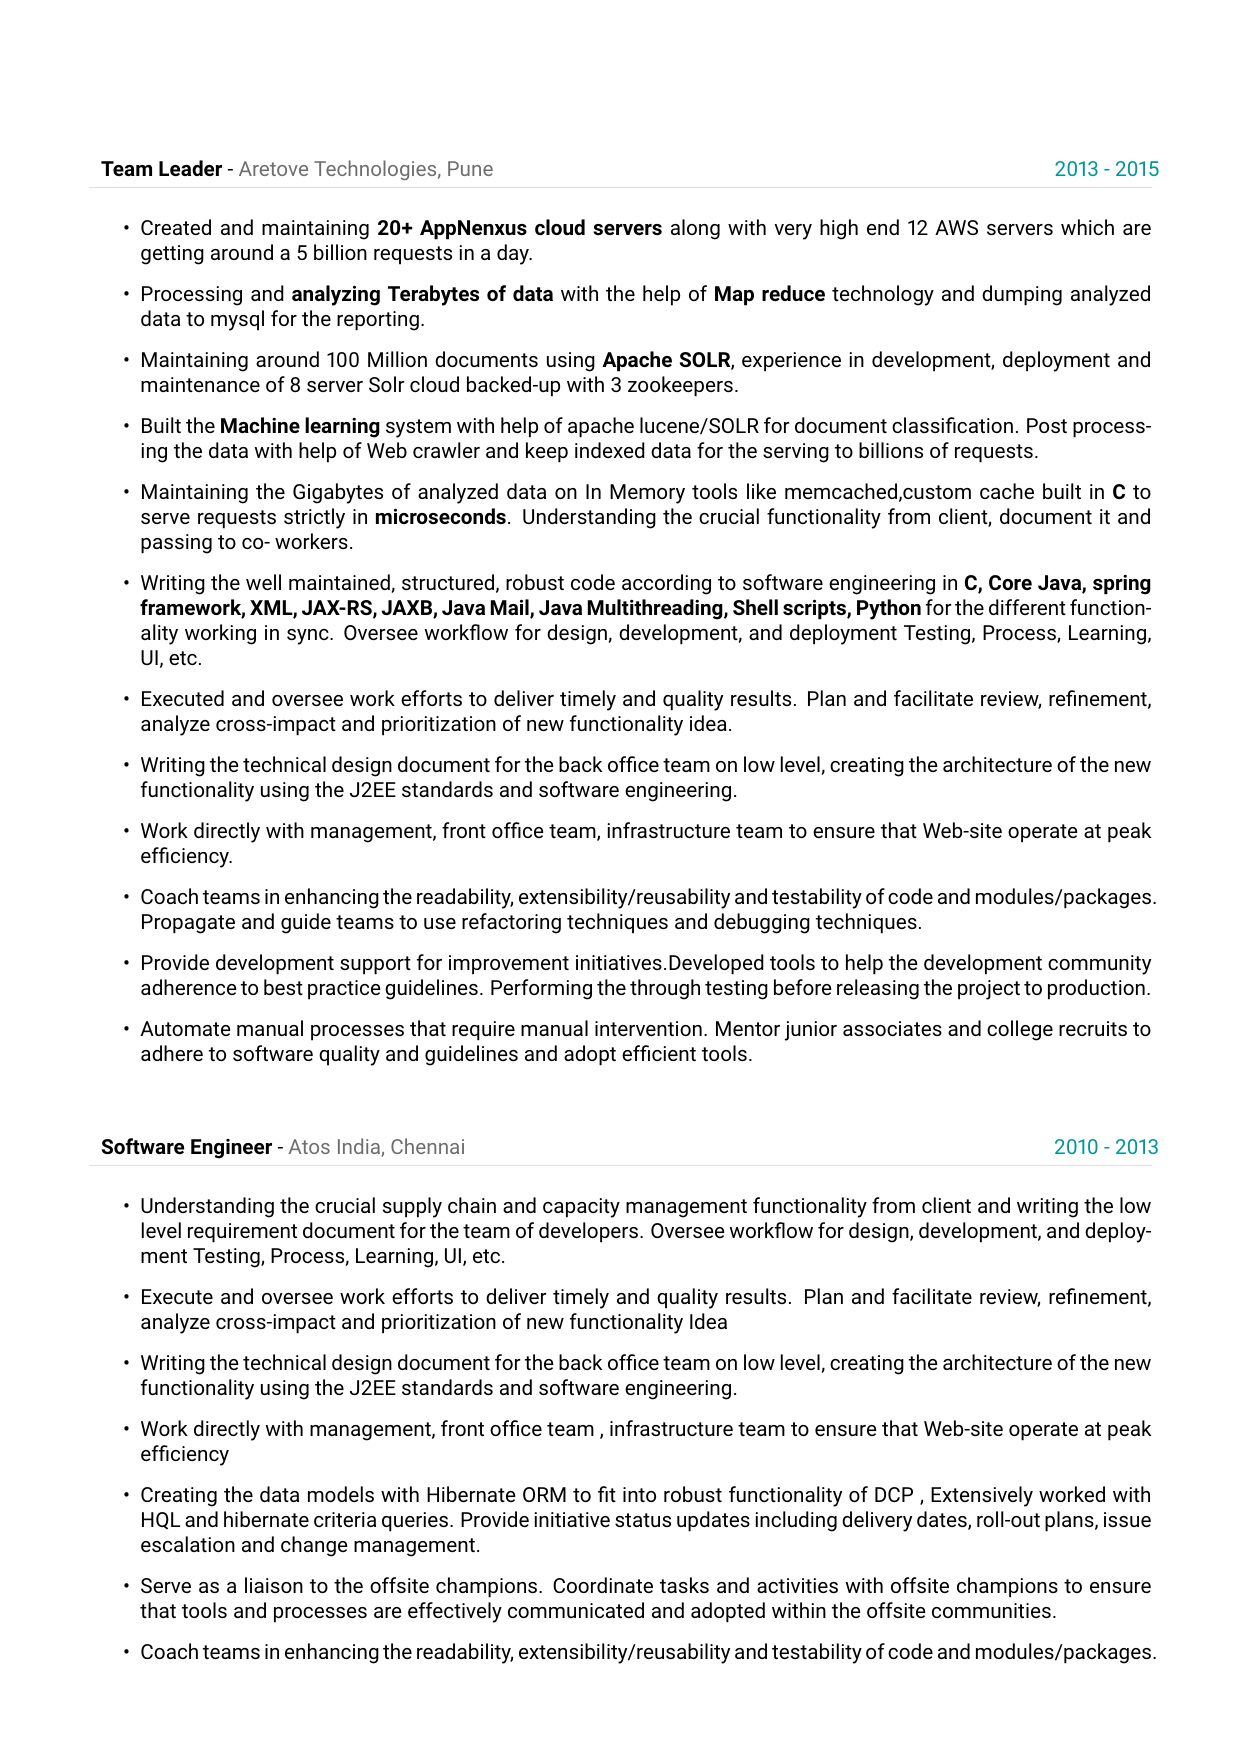
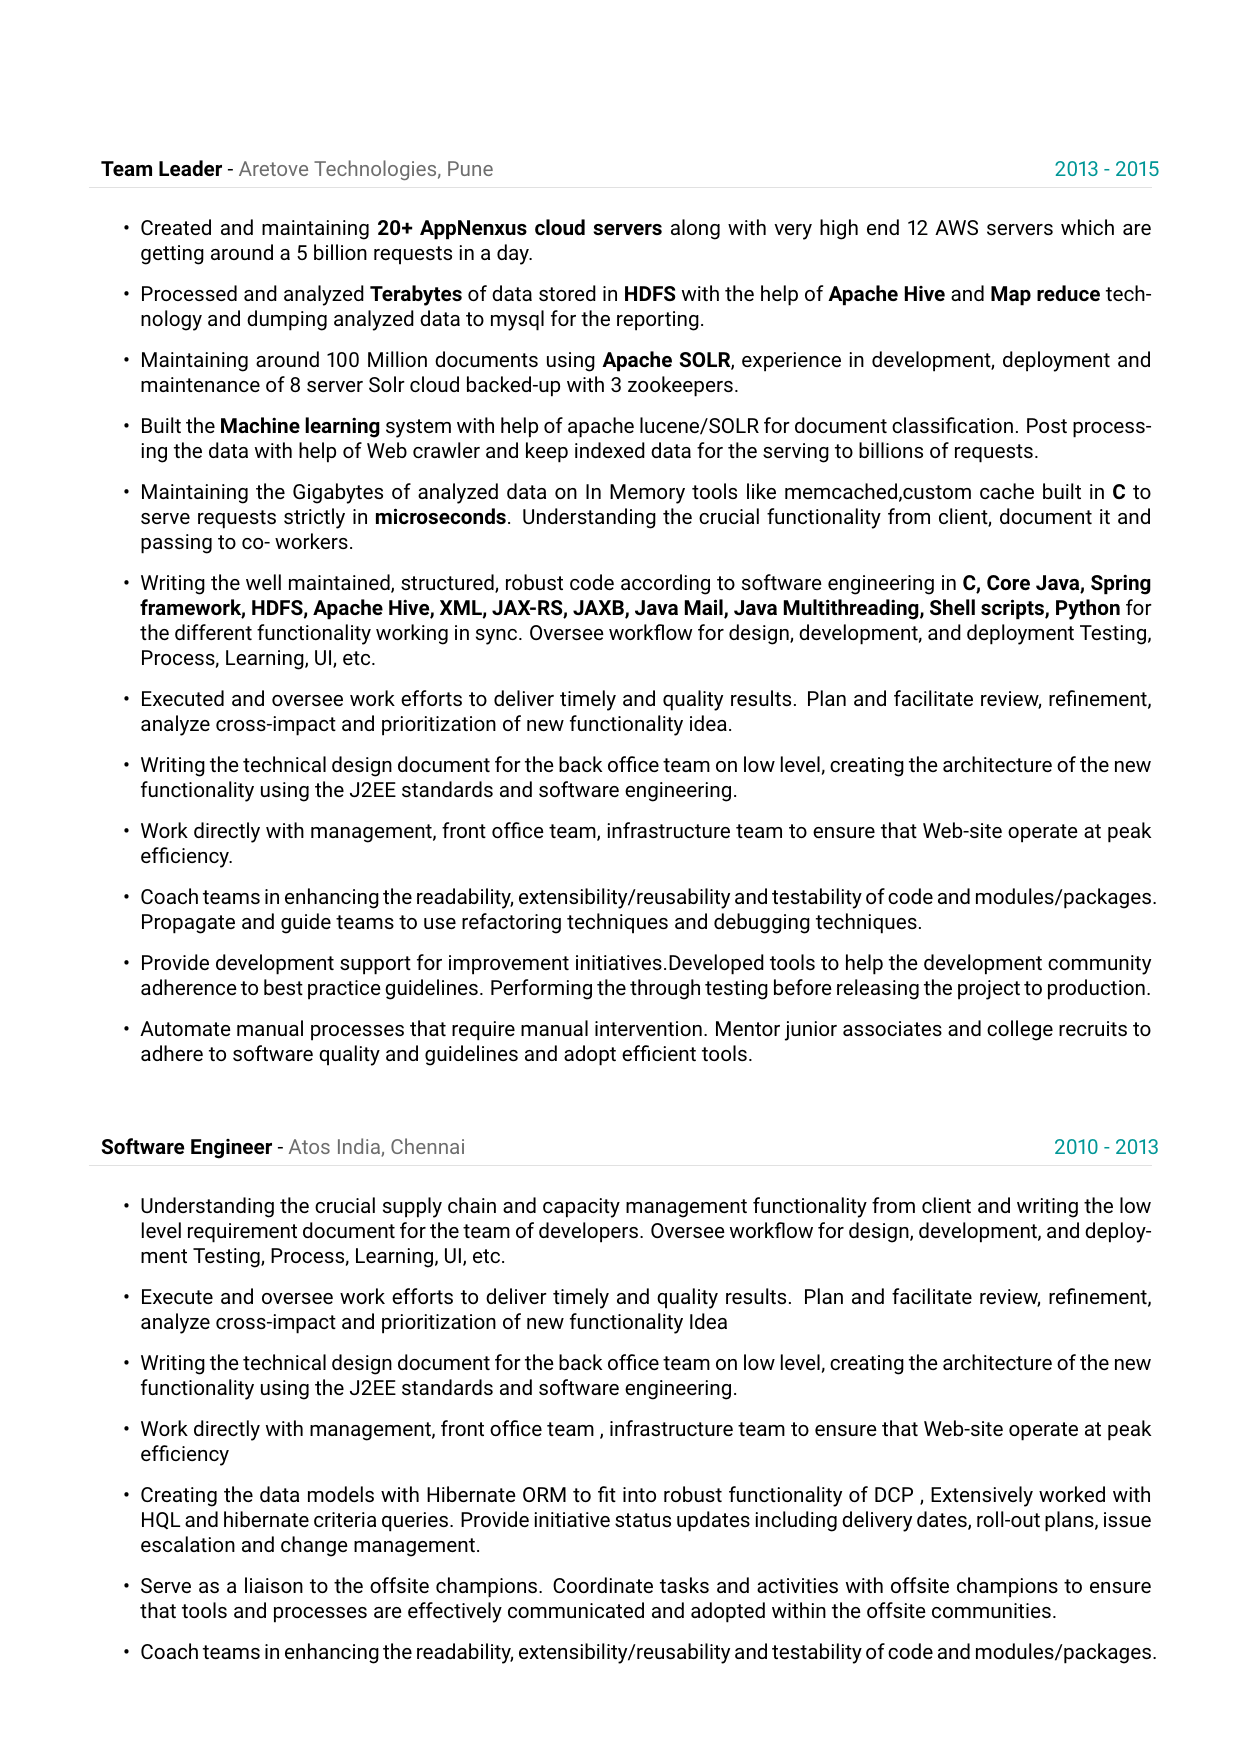
added some more skills used in past to resume

Changed region(s): [[0.1225, 0.3079, 0.9186, 0.4002], [0.1531, 0.1539, 0.9186, 0.1847]]

diff --git a/resume.tex b/resume.tex
@@ -446,7 +446,7 @@ Docker.
 
 \item Created and maintaining \textbf{20+ AppNenxus cloud servers} along with very high end 12 AWS servers which are getting around a 5 billion requests in a day.
 
-\item Processing and \textbf{analyzing Terabytes of data} with the help of \textbf{Map reduce} 
+\item Processed and analyzed \textbf{Terabytes} of data stored in \textbf{HDFS} with the help of \textbf{Apache Hive} and \textbf{Map reduce} 
 technology and dumping analyzed data to mysql for the reporting.
 
 \item Maintaining around 100 Million documents using \textbf{Apache SOLR}, experience in
@@ -460,7 +460,7 @@ memcached,custom cache built in \textbf{C} to serve requests strictly in \textbf
 Understanding the crucial functionality from client, document it and passing to co-
 workers.
 \item Writing the well maintained, structured, robust code according to software engineering
-in \textbf{C, Core Java, spring framework, XML, JAX-RS, JAXB, Java Mail, Java
+in \textbf{C, Core Java, Spring framework, HDFS, Apache Hive, XML, JAX-RS, JAXB, Java Mail, Java
 Multithreading, Shell scripts, Python} for the different functionality working in sync.
 Oversee workflow for design, development, and deployment Testing, Process,
 Learning, UI, etc.
